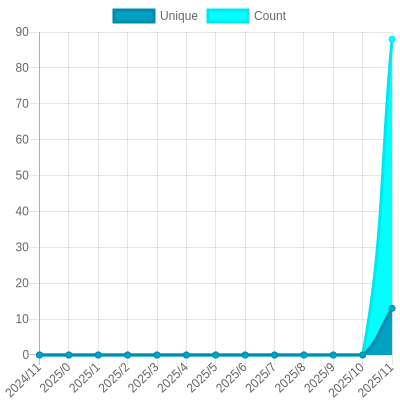
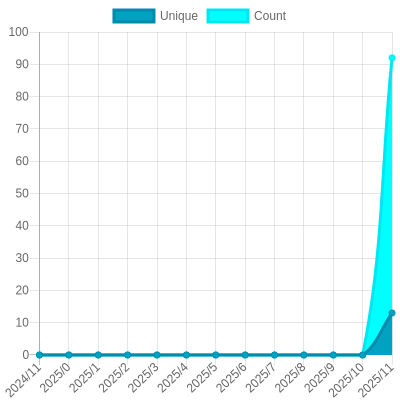
Update views

diff --git a/readme/898789370/year.md b/readme/898789370/year.md
@@ -26,7 +26,7 @@
 			<code>13</code>
 		</td>
 		<td>
-			<code>88</code>
+			<code>92</code>
 		</td>
 	</tr>
 	<tr>
@@ -164,7 +164,7 @@
 </table>
 
 </details>
-<small><i>Last updated on 2024/12/7 12:12 PM UTC</i></small>
+<small><i>Last updated on 2024/12/7 6:09 PM UTC</i></small>
 
 ## ✂Copy and 📋 Paste
 ### SVG Badge

diff --git a/README.md b/README.md
@@ -661,7 +661,7 @@ The project created and maintained by [gayanvoice](https://github.com/gayanvoice
 	</tr>
 </table>
 
-<small><i>Last updated on 2024/12/7 12:17 PM UTC</i></small>
+<small><i>Last updated on 2024/12/7 6:13 PM UTC</i></small>
 
 ## ✂Copy and 📋 Paste
 ### Total Views Badge

diff --git a/readme/741767733/year.md b/readme/741767733/year.md
@@ -164,7 +164,7 @@
 </table>
 
 </details>
-<small><i>Last updated on 2024/12/7 12:16 PM UTC</i></small>
+<small><i>Last updated on 2024/12/7 6:13 PM UTC</i></small>
 
 ## ✂Copy and 📋 Paste
 ### SVG Badge

diff --git a/readme/743040344/year.md b/readme/743040344/year.md
@@ -164,7 +164,7 @@
 </table>
 
 </details>
-<small><i>Last updated on 2024/12/7 12:16 PM UTC</i></small>
+<small><i>Last updated on 2024/12/7 6:13 PM UTC</i></small>
 
 ## ✂Copy and 📋 Paste
 ### SVG Badge

diff --git a/readme/743190582/year.md b/readme/743190582/year.md
@@ -164,7 +164,7 @@
 </table>
 
 </details>
-<small><i>Last updated on 2024/12/7 12:16 PM UTC</i></small>
+<small><i>Last updated on 2024/12/7 6:13 PM UTC</i></small>
 
 ## ✂Copy and 📋 Paste
 ### SVG Badge

diff --git a/readme/743191581/year.md b/readme/743191581/year.md
@@ -164,7 +164,7 @@
 </table>
 
 </details>
-<small><i>Last updated on 2024/12/7 12:16 PM UTC</i></small>
+<small><i>Last updated on 2024/12/7 6:13 PM UTC</i></small>
 
 ## ✂Copy and 📋 Paste
 ### SVG Badge

diff --git a/readme/743191862/year.md b/readme/743191862/year.md
@@ -164,7 +164,7 @@
 </table>
 
 </details>
-<small><i>Last updated on 2024/12/7 12:16 PM UTC</i></small>
+<small><i>Last updated on 2024/12/7 6:13 PM UTC</i></small>
 
 ## ✂Copy and 📋 Paste
 ### SVG Badge

diff --git a/readme/743233508/year.md b/readme/743233508/year.md
@@ -164,7 +164,7 @@
 </table>
 
 </details>
-<small><i>Last updated on 2024/12/7 12:12 PM UTC</i></small>
+<small><i>Last updated on 2024/12/7 6:09 PM UTC</i></small>
 
 ## ✂Copy and 📋 Paste
 ### SVG Badge

diff --git a/readme/744316609/year.md b/readme/744316609/year.md
@@ -164,7 +164,7 @@
 </table>
 
 </details>
-<small><i>Last updated on 2024/12/7 12:16 PM UTC</i></small>
+<small><i>Last updated on 2024/12/7 6:13 PM UTC</i></small>
 
 ## ✂Copy and 📋 Paste
 ### SVG Badge

diff --git a/readme/751849429/year.md b/readme/751849429/year.md
@@ -164,7 +164,7 @@
 </table>
 
 </details>
-<small><i>Last updated on 2024/12/7 12:16 PM UTC</i></small>
+<small><i>Last updated on 2024/12/7 6:13 PM UTC</i></small>
 
 ## ✂Copy and 📋 Paste
 ### SVG Badge

diff --git a/readme/763072915/year.md b/readme/763072915/year.md
@@ -164,7 +164,7 @@
 </table>
 
 </details>
-<small><i>Last updated on 2024/12/7 12:16 PM UTC</i></small>
+<small><i>Last updated on 2024/12/7 6:13 PM UTC</i></small>
 
 ## ✂Copy and 📋 Paste
 ### SVG Badge

diff --git a/readme/767313267/year.md b/readme/767313267/year.md
@@ -164,7 +164,7 @@
 </table>
 
 </details>
-<small><i>Last updated on 2024/12/7 12:16 PM UTC</i></small>
+<small><i>Last updated on 2024/12/7 6:12 PM UTC</i></small>
 
 ## ✂Copy and 📋 Paste
 ### SVG Badge
